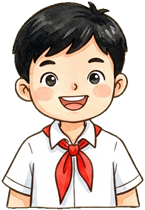
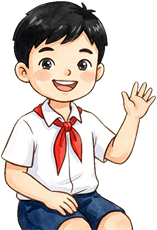
fix(minigame): redraw students with full upper body & arms, dip teacher oar into water

diff --git a/src/minigames/games/RiverFerryGame.tsx b/src/minigames/games/RiverFerryGame.tsx
@@ -297,10 +297,11 @@ function clipFrontHull(ctx: CanvasRenderingContext2D, boatW: number, boatH: numb
   const botY = boatH / 2;
 
   ctx.beginPath();
-  // Follow the exact front wooden rim curve of boat.png (left rim -> gentle dip at center -> right bow rim)
-  ctx.moveTo(-halfW, topY + boatH * 0.30);
-  ctx.quadraticCurveTo(0, topY + boatH * 0.50, halfW * 0.94, topY + boatH * 0.28);
-  ctx.lineTo(halfW, topY + boatH * 0.24);
+  // Follow the lower exterior front rim of boat.png so ONLY students' laps/skirts tuck behind the wood,
+  // while their full faces, red neckerchiefs, and BOTH waving/sleeping arms stay 100% visible!
+  ctx.moveTo(-halfW, topY + boatH * 0.38);
+  ctx.quadraticCurveTo(0, topY + boatH * 0.56, halfW * 0.94, topY + boatH * 0.36);
+  ctx.lineTo(halfW, topY + boatH * 0.30);
   ctx.lineTo(halfW, botY + 8);
   ctx.lineTo(-halfW, botY + 8);
   ctx.closePath();
@@ -322,14 +323,14 @@ function layoutPassengers(students: RosterStudent[], winnerIds: Set<string>): Pa
   const passengers: Passenger[] = [];
   let globalIdx = 0;
 
-  // Vertical seating anchor (bottom of student torso) inside the hollowed boat cavity:
-  // Back row sits near upper bench (-0.06 * boatH), front row tucks deep behind front gunwale (+0.11 * boatH)
+  // Vertical seating anchor (hip/lap line of the full upper-body student sprite):
+  // Back row sits higher (-0.16 * boatH), front row sits nicely at (+0.05 * boatH) so laps tuck behind front rim
   rows.forEach((rowList, rowIdx) => {
     const n = rowList.length;
-    const rowFrac = numRows === 1 ? 0.5 : rowIdx / (numRows - 1);
-    const rowYOffset = boatH * (-0.07 + rowFrac * 0.17);
+    const rowFrac = numRows === 1 ? 0.65 : rowIdx / (numRows - 1);
+    const rowYOffset = boatH * (-0.16 + rowFrac * 0.21);
 
-    // Gentle stagger between rows so every face & name tag is clearly visible
+    // Gentle stagger between rows so every face, waving hand & name tag is clearly visible
     const stagger = (rowIdx % 2 === 1 ? 1 : -1) * Math.min(14, (seatRight - seatLeft) / Math.max(6, n * 2.4));
     const spanLeft = seatLeft + (rowIdx * 8);
     const spanRight = seatRight - (rowIdx * 6);
@@ -339,7 +340,7 @@ function layoutPassengers(students: RosterStudent[], winnerIds: Set<string>): Pa
       const t = n === 1 ? 0.5 : colIdx / (n - 1);
       const seatX = spanLeft + t * span + (n > 2 ? stagger * 0.35 : 0);
       // Match the natural upward curve of the boat benches toward stern and prow
-      const curveLift = Math.pow((t - 0.5) * 2, 2) * (boatH * 0.055);
+      const curveLift = Math.pow((t - 0.5) * 2, 2) * (boatH * 0.05);
       const seatY = rowYOffset - curveLift;
 
       passengers.push({
@@ -962,7 +963,7 @@ export const RiverFerryGame: React.FC<MinigameProps> = ({
             ? assets.girlAwake
             : assets.boyAwake;
 
-        const drawH = 92 * studentScale;
+        const drawH = 114 * studentScale;
         const drawW = (sprite.width / sprite.height) * drawH;
 
         // Golden spotlight beam from sky onto sleeping winners during REVEAL / late DISEMBARK
@@ -987,11 +988,11 @@ export const RiverFerryGame: React.FC<MinigameProps> = ({
           ctx.restore();
         }
 
-        // Anchor student bottom torso cleanly inside the hollowed cavity so front gunwale overlaps lower chest
+        // Anchor student lap/waist cleanly inside the boat so full upper body + BOTH arms stay above the rim!
         ctx.save();
         ctx.translate(p.seatX, p.seatY + stormBounce);
         ctx.rotate(sleepNod);
-        ctx.drawImage(sprite, -drawW / 2, -drawH * 0.86, drawW, drawH);
+        ctx.drawImage(sprite, -drawW / 2, -drawH * 0.90, drawW, drawH);
         ctx.restore();
 
         tagOverlays.push({
@@ -1004,11 +1005,61 @@ export const RiverFerryGame: React.FC<MinigameProps> = ({
         });
       }
 
-      // LAYER 3: Front Wooden Gunwale & Lower Hull Overlay (clips boat front over lower torsos & teacher's shoes!)
+      // LAYER 3: Front Wooden Gunwale & Lower Hull Overlay (tucks ONLY lower laps & teacher's shoes inside boat)
       ctx.save();
       clipFrontHull(ctx, boatW, boatH);
       drawBoat3Slice(ctx, assets.boat, boatW, boatH, bayRepeats);
       ctx.restore();
+
+      // LAYER 3B: Extended Wooden Oar Blade dipping right INTO the river water when teacher is at the stern!
+      if (sim.teacherWalkX <= teacherSternX + 18) {
+        const oarSwing = isRowing ? Math.sin(tSec * (sim.phase === 'STORM' ? 7.5 : 4.8)) : 0;
+        const oarPivotX = sim.teacherWalkX - tW * 0.28;
+        const oarPivotY = teacherFeetY - tH * 0.24;
+        const oarEndX = oarPivotX - 78 + oarSwing * 18;
+        const oarEndY = boatH * 0.44 + Math.abs(oarSwing) * 6; // Reaches right into the water line!
+
+        ctx.save();
+        // Wooden shaft continuing seamlessly from teacher's oar handle
+        ctx.lineCap = 'round';
+        ctx.strokeStyle = '#4a2c15';
+        ctx.lineWidth = 9;
+        ctx.beginPath();
+        ctx.moveTo(oarPivotX, oarPivotY);
+        ctx.lineTo(oarEndX, oarEndY);
+        ctx.stroke();
+
+        ctx.strokeStyle = '#9a6332';
+        ctx.lineWidth = 5;
+        ctx.beginPath();
+        ctx.moveTo(oarPivotX, oarPivotY);
+        ctx.lineTo(oarEndX, oarEndY);
+        ctx.stroke();
+
+        // Watercolor wooden paddle blade dipping into the river
+        const angle = Math.atan2(oarEndY - oarPivotY, oarEndX - oarPivotX);
+        ctx.translate(oarEndX, oarEndY);
+        ctx.rotate(angle);
+        ctx.beginPath();
+        ctx.ellipse(-6, 0, 24, 9, 0, 0, Math.PI * 2);
+        ctx.fillStyle = '#a46b38';
+        ctx.fill();
+        ctx.lineWidth = 2.2;
+        ctx.strokeStyle = '#4a2c15';
+        ctx.stroke();
+        ctx.restore();
+
+        // Animated water splash rings right where the oar blade enters the water
+        ctx.save();
+        const rippleR = 14 + ((tSec * (isRowing ? 32 : 10)) % 22);
+        const rippleAlpha = Math.max(0, 1 - (rippleR - 14) / 22) * (isRowing ? 0.8 : 0.42);
+        ctx.strokeStyle = `rgba(255, 255, 255, ${rippleAlpha})`;
+        ctx.lineWidth = 2.5;
+        ctx.beginPath();
+        ctx.ellipse(oarEndX - 4, boatH * 0.44, rippleR, rippleR * 0.34, 0, 0, Math.PI * 2);
+        ctx.stroke();
+        ctx.restore();
+      }
 
       // LAYER 4: Floating Name Tag Pills & "Zzz" bubbles rendered crisply above the boat & characters
       const tagFontSize = sim.passengers.length > 36 ? 10 : sim.passengers.length > 22 ? 11 : 13;
